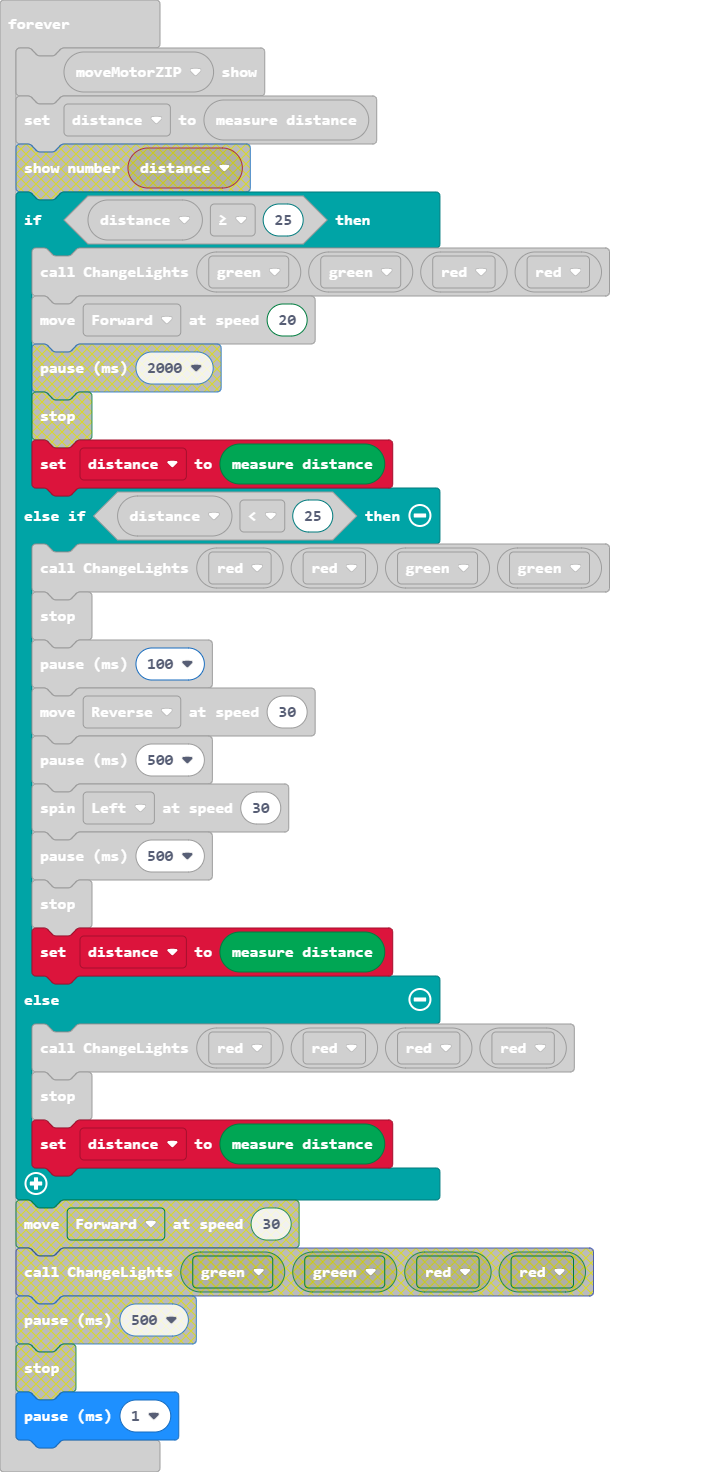
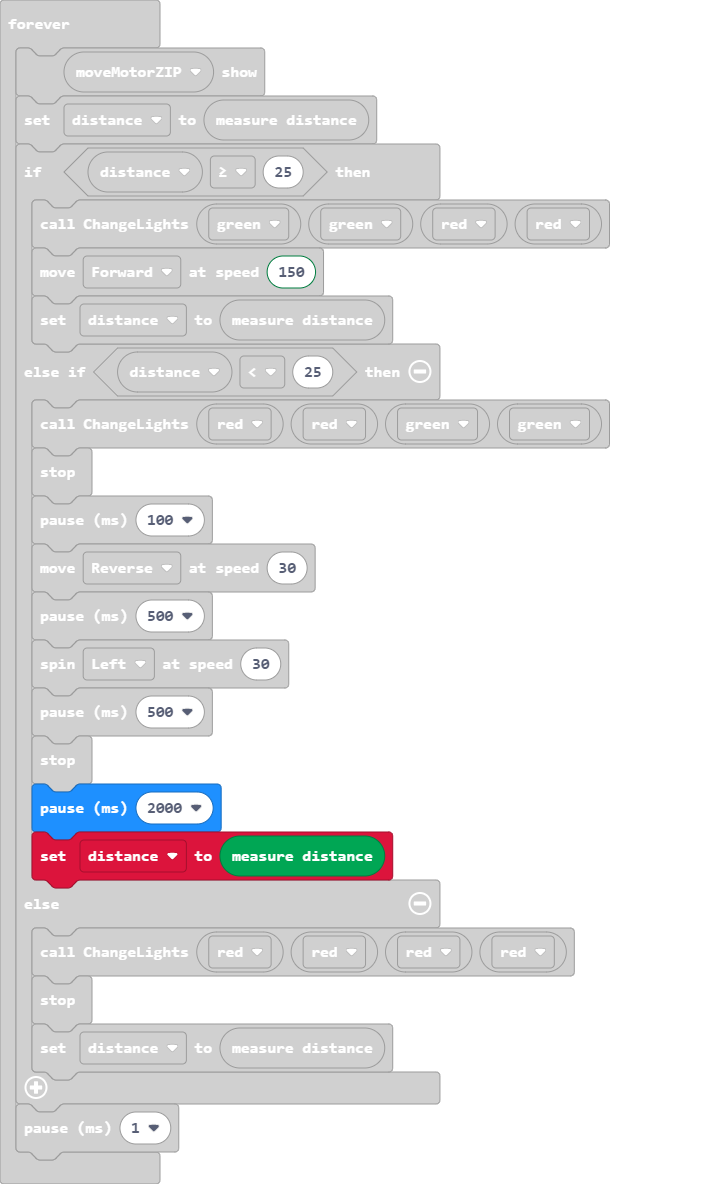
faster , with pause after turn

diff --git a/main.ts b/main.ts
@@ -20,7 +20,7 @@ basic.forever(function () {
     distance = Kitronik_Move_Motor.measure()
     if (distance >= 25) {
         ChangeLights(Kitronik_Move_Motor.colors(Kitronik_Move_Motor.ZipLedColors.Green), Kitronik_Move_Motor.colors(Kitronik_Move_Motor.ZipLedColors.Green), Kitronik_Move_Motor.colors(Kitronik_Move_Motor.ZipLedColors.Red), Kitronik_Move_Motor.colors(Kitronik_Move_Motor.ZipLedColors.Red))
-        Kitronik_Move_Motor.move(Kitronik_Move_Motor.DriveDirections.Forward, 20)
+        Kitronik_Move_Motor.move(Kitronik_Move_Motor.DriveDirections.Forward, 150)
         distance = Kitronik_Move_Motor.measure()
     } else if (distance < 25) {
         ChangeLights(Kitronik_Move_Motor.colors(Kitronik_Move_Motor.ZipLedColors.Red), Kitronik_Move_Motor.colors(Kitronik_Move_Motor.ZipLedColors.Red), Kitronik_Move_Motor.colors(Kitronik_Move_Motor.ZipLedColors.Green), Kitronik_Move_Motor.colors(Kitronik_Move_Motor.ZipLedColors.Green))
@@ -31,6 +31,7 @@ basic.forever(function () {
         Kitronik_Move_Motor.spin(Kitronik_Move_Motor.SpinDirections.Left, 30)
         basic.pause(500)
         Kitronik_Move_Motor.stop()
+        basic.pause(2000)
         distance = Kitronik_Move_Motor.measure()
     } else {
         ChangeLights(Kitronik_Move_Motor.colors(Kitronik_Move_Motor.ZipLedColors.Red), Kitronik_Move_Motor.colors(Kitronik_Move_Motor.ZipLedColors.Red), Kitronik_Move_Motor.colors(Kitronik_Move_Motor.ZipLedColors.Red), Kitronik_Move_Motor.colors(Kitronik_Move_Motor.ZipLedColors.Red))
